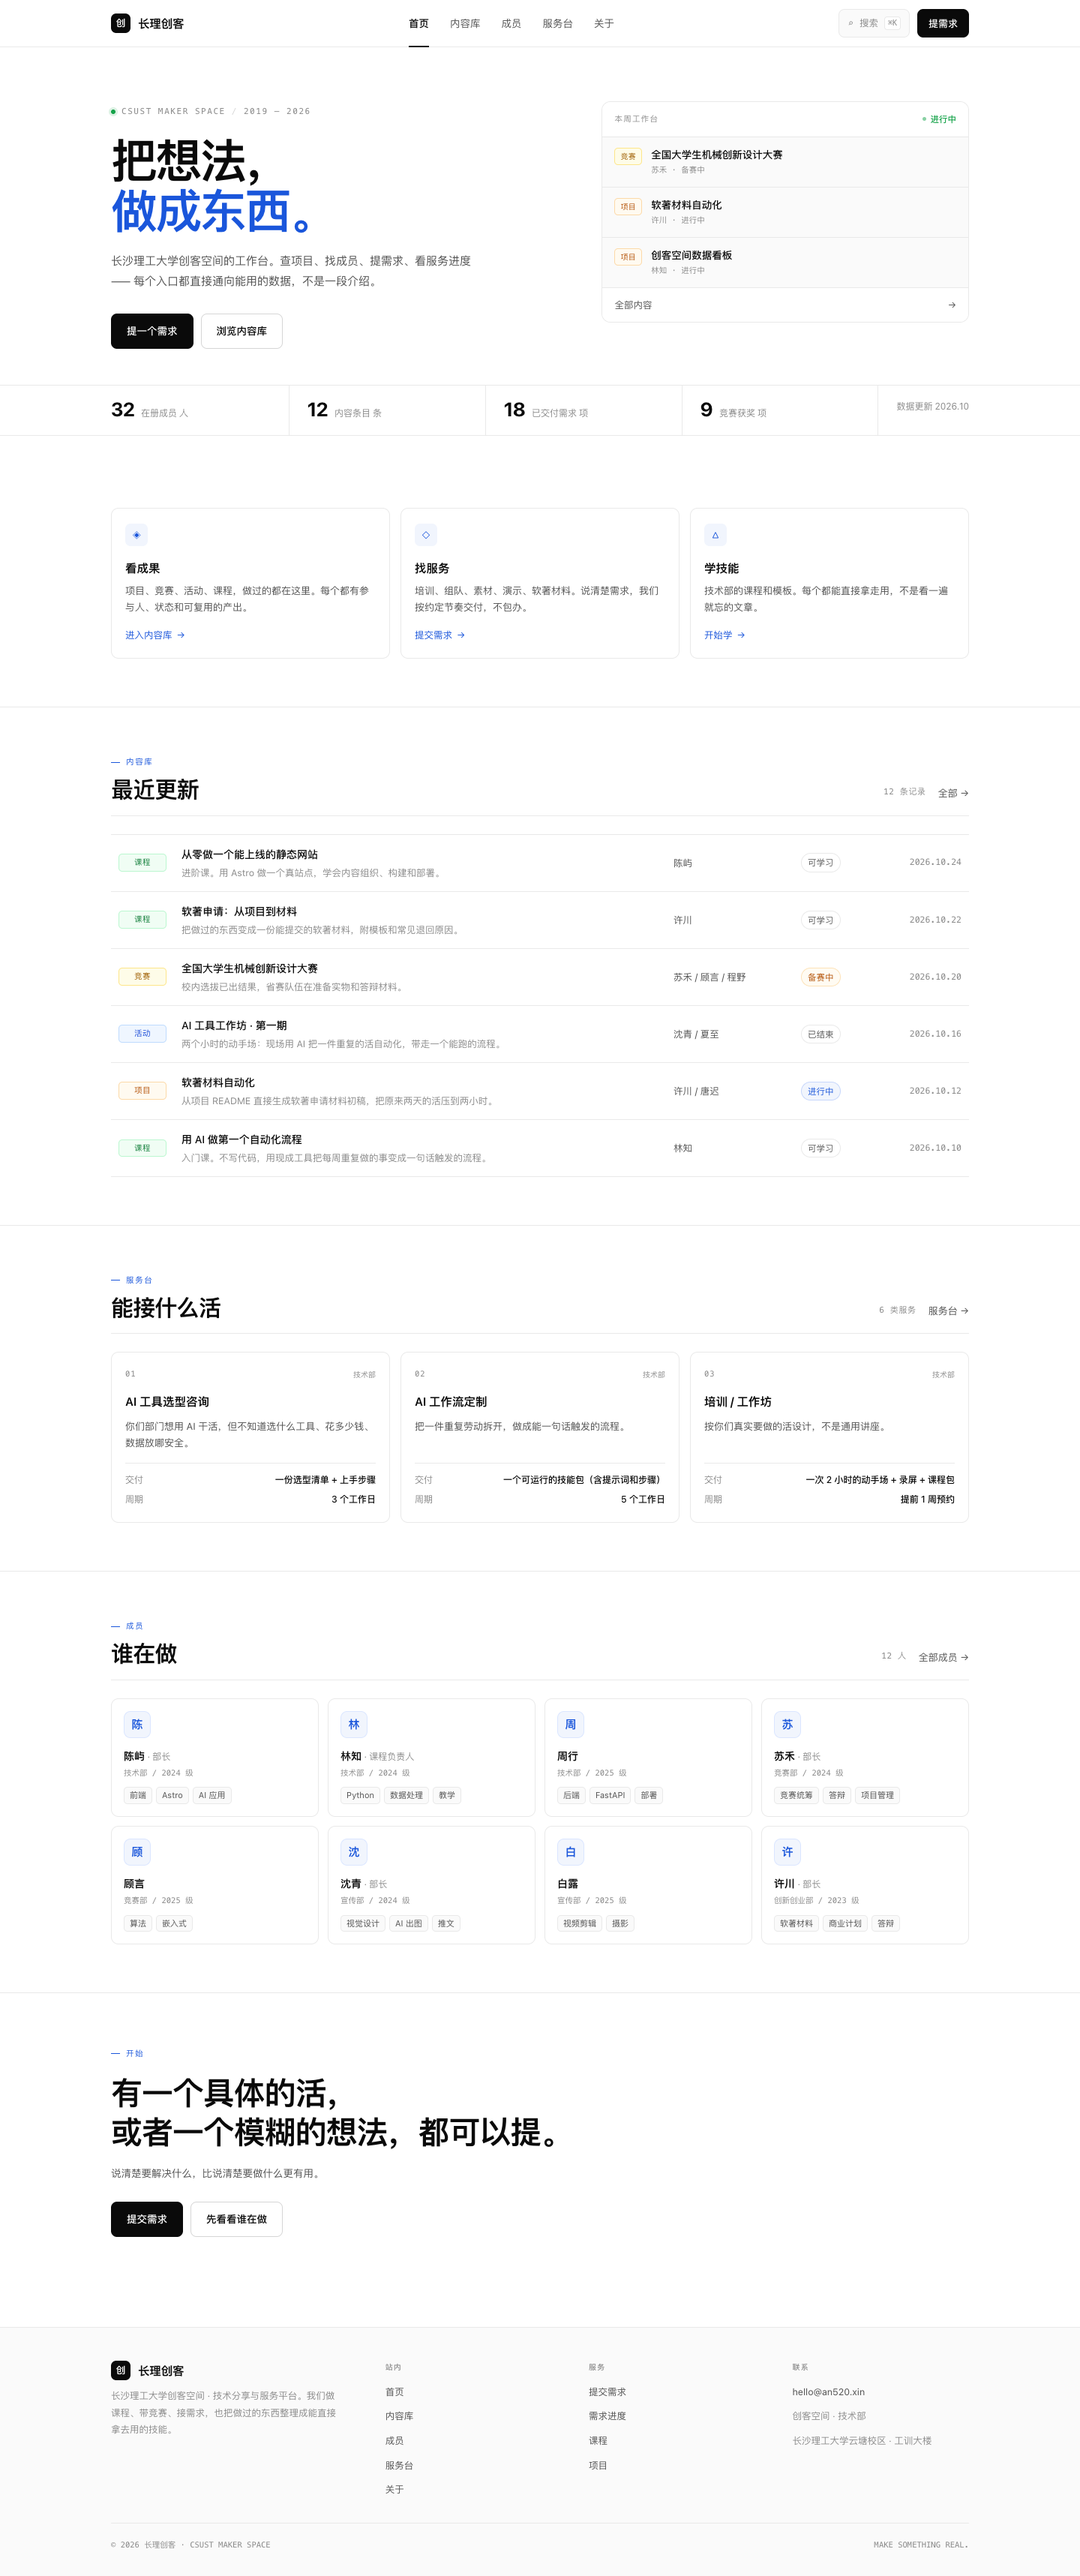
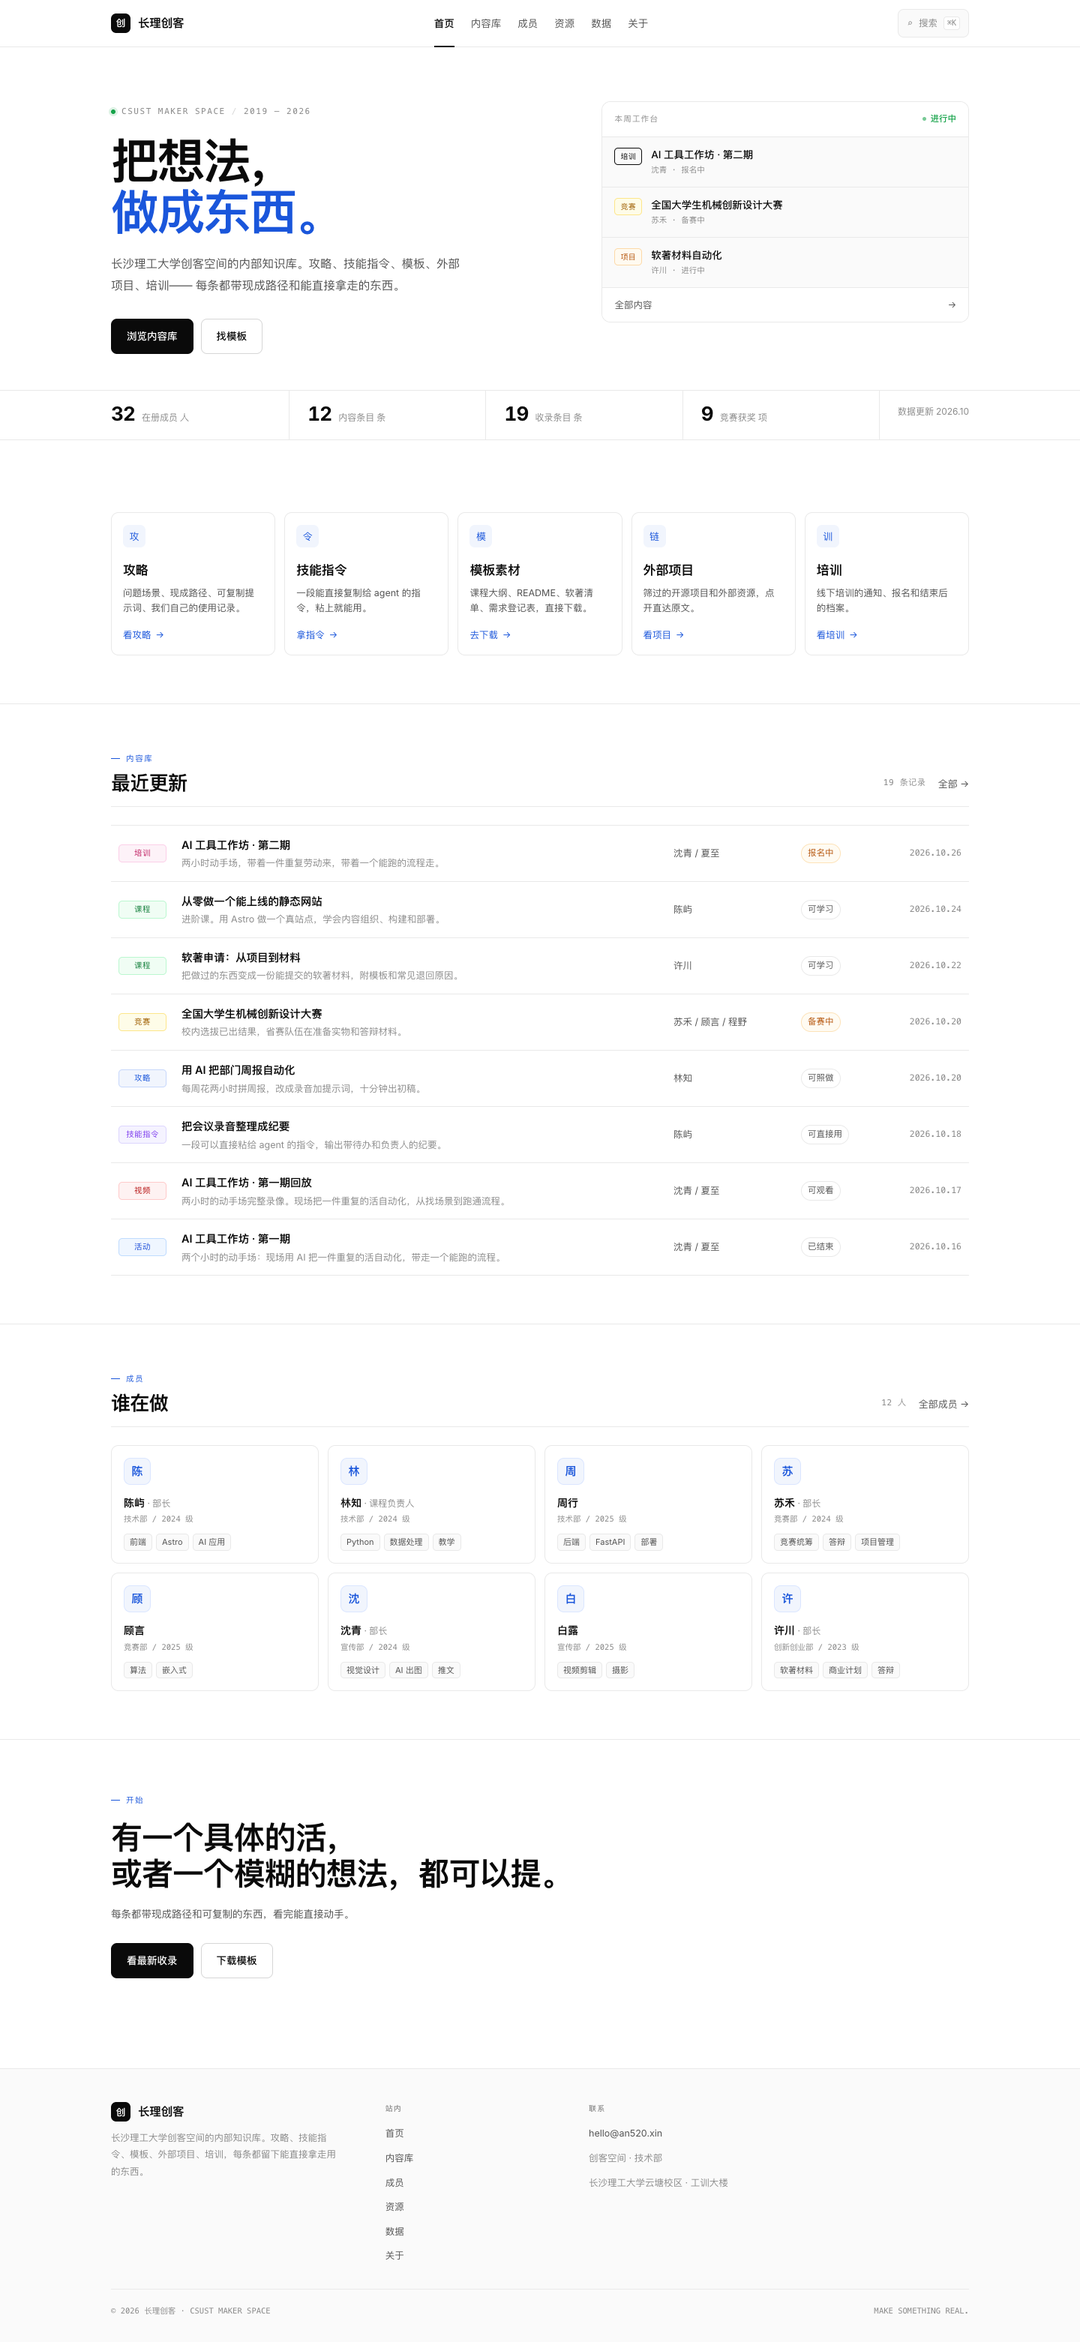
feat: 收录 ai.an520.xin 筛选后的 7 篇（方法论/工具实测/省钱），详情页标注来源

diff --git a/src/data/items.ts b/src/data/items.ts
@@ -67,6 +67,9 @@ export interface Item {
     downloadUrl?: string;
     /** link */
     url?: string;
+    /** 外部来源（收录自 ai.an520.xin 等） */
+    sourceUrl?: string;
+    sourceName?: string;
     /** training */
     kind?: 'notice' | 'archive';
     deadline?: string;
@@ -88,6 +91,170 @@ export const typeMeta: Record<ItemType, { label: string; glyph: string; color: s
 };
 
 const rawItems: Item[] = [
+  // ---------- 收录自 ai.an520.xin（已筛选：方法论 / 工具实测 / 省钱）----------
+  {
+    id: 'g02',
+    type: 'guide',
+    publishState: 'published',
+    title: '给 AI 派活前的苏格拉底六问',
+    summary: '先问明白再开工，避免 AI 把「错误的问题」解得漂漂亮亮。',
+    date: '2026-10-25',
+    status: '可照做',
+    people: [],
+    tags: ['方法论', '提问', 'AI'],
+    author: '安大王',
+    extra: {
+      scene: '直接让 AI 开干，它可能把一个没想清楚的问题解得又快又漂亮，最后返工重来。',
+      path: [
+        '开口前先过六问：澄清、假设、证据、视角、后果、回归',
+        '每问用一句话自答，答不上来的那一条就是问题所在',
+        '把答出来的共识写进提示词再让 AI 动手',
+      ],
+      prompt: '在开始之前，先用苏格拉底式提问帮我确认需求：澄清（到底要解决什么）、假设（我在默认什么成立）、证据（凭什么这么判断）、视角（有没有别的解读）、后果（做错会怎样）、回归（最初想达成什么）。每项只问一个问题，我答完再动手。',
+      usage: '适合需求模糊、或者对方说不清想要什么的时候。',
+      sourceUrl: 'https://ai.an520.xin/p/socratic',
+      sourceName: 'ai.an520.xin',
+    },
+  },
+  {
+    id: 'g03',
+    type: 'guide',
+    publishState: 'published',
+    title: 'AI Agent 选型地图：三维判断法',
+    summary: '选型先别管框架，先回答三个问题：本地还是云端、单 Agent 还是多 Agent、写代码还是低代码。',
+    date: '2026-10-25',
+    status: '可照做',
+    people: [],
+    tags: ['Agent', '选型', '框架'],
+    author: '安大王',
+    extra: {
+      scene: '20 多个 Agent 框架，看一圈下来还是不知道选哪个。',
+      path: [
+        '第一维：跑在哪 —— 本地 / 云端',
+        '第二维：几个 Agent —— 单个 / 多 Agent 协作',
+        '第三维：怎么写 —— 直接写代码 / 低代码编排',
+        '三个答案交叉，落到具体 2~3 个框架再对比',
+      ],
+      usage: '先在纸上把三个问题答完，再打开任何框架文档。',
+      sourceUrl: 'https://ai.an520.xin/p/agent-map',
+      sourceName: 'ai.an520.xin',
+    },
+  },
+  {
+    id: 'g04',
+    type: 'guide',
+    publishState: 'published',
+    title: 'OpenCode Go 套餐省钱实测',
+    summary: '月费 10 美元、官方计价额度最高 60 美元（约 400 块），附开通步骤和三个坑。',
+    date: '2026-10-25',
+    status: '可照做',
+    people: [],
+    tags: ['省钱', 'OpenCode', '实测'],
+    author: '安大王',
+    extra: {
+      scene: '想用便宜的模型额度，但不想踩充值的坑。',
+      path: [
+        '确认套餐类型：月付 10 美元，官方计价额度上限 60 美元',
+        '按步骤开通，注意区域与支付方式',
+        '留意三个已知坑（额度计算口径、限速、退款）',
+      ],
+      usage: '价格与政策会变，用之前先核对当期条款。',
+      sourceUrl: 'https://ai.an520.xin/p/opencode-go',
+      sourceName: 'ai.an520.xin',
+    },
+  },
+  {
+    id: 'g05',
+    type: 'guide',
+    publishState: 'published',
+    title: 'OpenCode Go 里跑得最多的模型是哪个',
+    summary: '10 美元套餐月跑 15 万次请求，常规模型里小米的用得最多。',
+    date: '2026-10-25',
+    status: '参考',
+    people: [],
+    tags: ['模型', '实测', 'OpenCode'],
+    author: '安大王',
+    extra: {
+      scene: '套餐买回来，不知道把哪个模型设成默认最划算。',
+      path: [
+        '看实际请求量分布，而不是看跑分',
+        '常规任务交给高频低成本的模型',
+        '关键任务再切更强的模型',
+      ],
+      usage: '结论有时效，新模型上线后要重新看分布。',
+      sourceUrl: 'https://ai.an520.xin/p/mimo-go',
+      sourceName: 'ai.an520.xin',
+    },
+  },
+  {
+    id: 'g06',
+    type: 'guide',
+    publishState: 'published',
+    title: '小米下一代模型免费内测：每周 10 亿 token',
+    summary: '申请基本就过，免费跑两款模型，文生图、图生图都能用。',
+    date: '2026-10-25',
+    status: '时效',
+    people: [],
+    tags: ['免费额度', '小米', '内测'],
+    author: '安大王',
+    extra: {
+      scene: '想白嫖额度做实验，但常规渠道要么贵要么慢。',
+      path: [
+        '找到官方邀测入口，按要求提交申请',
+        '通过后拿 key，先用小任务验证可用性',
+        '留意额度是按周重置还是总量',
+      ],
+      usage: '内测有时效和条款限制，正式使用前先看许可范围。',
+      sourceUrl: 'https://ai.an520.xin/p/mimo',
+      sourceName: 'ai.an520.xin',
+    },
+  },
+  {
+    id: 'g07',
+    type: 'guide',
+    publishState: 'published',
+    title: '一条命令复刻爆款视频：Hypit 实测',
+    summary: '把一条爆款丢给 Agent，整片复刻成能重复跑的工程，单条成片约 1.07~1.15 美元。',
+    date: '2026-10-25',
+    status: '参考',
+    people: [],
+    tags: ['视频', '复刻', '工具'],
+    author: '安大王',
+    extra: {
+      scene: '想批量做同类短视频，但每条都从头剪太慢。',
+      path: [
+        '准备一条参考视频作为模板',
+        '用命令把模板拆成可复用的工程',
+        '替换素材批量出片，注意成本与版权',
+      ],
+      usage: '复刻他人作品涉及版权，内部测试用，不要直接对外发布。',
+      sourceUrl: 'https://ai.an520.xin/p/hypit',
+      sourceName: 'ai.an520.xin',
+    },
+  },
+  {
+    id: 'g08',
+    type: 'guide',
+    publishState: 'published',
+    title: 'TTS 语音模型盘点：本地小模型与复刻天花板',
+    summary: '25MB 的本地小模型塞进笔记本就能开口，开源款盲测对 ElevenLabs 胜率 65.3%。',
+    date: '2026-10-25',
+    status: '参考',
+    people: [],
+    tags: ['TTS', '语音', '工具盘点'],
+    author: '安大王',
+    extra: {
+      scene: '要做配音，但不确定用云端服务还是本地模型。',
+      path: [
+        '先明确需求：实时 / 离线、单说话人 / 多说话人',
+        '本地小模型适合隐私敏感和离线场景',
+        '云端适合追求自然度和多语种',
+      ],
+      usage: '声音复刻涉及他人声音权，使用前必须取得授权。',
+      sourceUrl: 'https://ai.an520.xin/p/tts',
+      sourceName: 'ai.an520.xin',
+    },
+  },
   // ---------- 五类新内容 ----------
   {
     id: 'g01',

diff --git a/src/styles/global.css b/src/styles/global.css
@@ -928,6 +928,16 @@ kbd {
 .kv-list span { color: var(--text-3); }
 .kv-list b { font-weight: 500; }
 
+/* ---------------------------- 来源 ---------------------------- */
+
+.source-line {
+  margin: 18px 0 0;
+  font-size: 12.5px;
+  color: var(--text-3);
+}
+.source-line a { color: var(--text-2); text-decoration: underline; text-underline-offset: 3px; }
+.source-line a:hover { color: var(--accent); }
+
 /* ---------------------------- 反馈 ---------------------------- */
 
 .feedback {

diff --git a/AGENTS.md b/AGENTS.md
@@ -4,7 +4,8 @@
 
 ## 项目约定
 
-- **所有内容在 `src/data/`**：`site.ts`（站名/导航/首页）、`members.ts`（成员）、`items.ts`（项目/竞赛/活动/课程）、`services.ts`（服务与需求）。改内容不碰页面。
+- **所有内容在 `src/data/`**：`site.ts`（站名/导航/首页）、`members.ts`（成员）、`items.ts`（五类内容：攻略 guide / 技能指令 skill / 模板 template / 外部项目 link / 培训 training）。改内容不碰页面。
+- **发布状态在 `publish-state.json`**（后台写入），审核记录在 `review-log.json`。校验：`pnpm test`，构建烟雾：`pnpm test:smoke`。
 - **页面在 `src/pages/`**，布局与导航在 `src/layouts/`、`src/components/`，设计系统在 `src/styles/global.css`。
 - **不要提交** `node_modules/`、`dist/`、`.astro/`（见 `.gitignore`）。
 - **构建**：`pnpm build`，产物在 `dist/`。
@@ -14,9 +15,12 @@
 
 ## 设计约束
 
-- 深色工程感 + 橙色信号色（`#e0632f`），衬线中文标题 + 无衬线正文。
-- 动效用渐进增强：`.js` 类才启用滚动浮现，无 JS 时内容必须全部可见。
-- 中文排版优先：标题不强行断行，字号用 `clamp()`。
+- 浅色工具风：白底、黑字、单一蓝色点缀（`#1a56db`），不做渐变、不做紫色。
+- 列表与表格优先，不做营销卡片和轮播。
+- 字体：Inter（拉丁/数字）+ PingFang SC（中文）；数字统一 `tabular-nums`。
+- 字号用 token（`--text-*`），不写死；行高用 `--leading-*`。
+- 不做滚动隐藏：内容始终可见（避免快速滚动出现空白）。
+- 全站 `noindex`，内部使用。
 
 ## Agent skills
 
